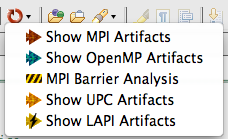
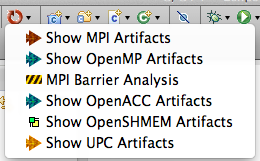
Remove references to PTP 5.0; replace with 6.0 where appropriate; misc help changes

diff --git a/tools/pldt/org.eclipse.ptp.pldt.doc.user/html/setup.html b/tools/pldt/org.eclipse.ptp.pldt.doc.user/html/setup.html
@@ -33,7 +33,7 @@ to find the include paths for build as well as for other Eclipse tools.
 refer to a C project in which it manages the makefile as  a "Managed Make Project" or a "Managed Build Project."
 They refer to a project which 
 you supply the makefile is a "Standard Make project".
-<p>The current version of CDT that works with PTP 5.0 is CDT 8.0.
+<p>The current version of CDT that works with PTP 6.0 is CDT 8.1.
 CDT 5.0 and later refers to a C project in which it manages the makefile as just a "C Project" and a project which 
 you supply the makefile is a <a href="setupMakefileProject.html">"Makefile project."</a>
 <p>Both terminologies are sometimes used in these instructions.
@@ -50,24 +50,10 @@ and the selection may be different from what is shown here.
 <img src="images/mpiWizard.png">
 <!--  ========================================== -->
 <p>&nbsp;
-<ul>
-<li>Note: if you have modified the MPI Preferences to <b>Uncheck</b> "Recognize MPI Artifacts by prefix (MPI) alone?"
-then the header file must be located for MPI artifacts to be recognized. 
-<p><img src="images/recognize-mpi-prefix.png">
-<p>&nbsp;
-<p>So if
-you are <i>not</i> recognizing MPI artifacts by prefix alone, then PLDT will have to use include files to
-identify MPI artifacts. If you have not set the MPI includes on the MPI Preferences page yet, 
-you'll be prompted at this point in the new project wizard dialog:
-<br><img src="images/mpiPrefsHaveNotBeenSet.png">
-<p>&nbsp;
-<p>See <a href="includes.html">A word about includes and MPI preferences</a>
-for more information and how to fill this in.
-</li>
-</ul>
+
 <!--  ========================================== -->
 <p>&nbsp;
-<p>After specifying the include files in the preferences, or if it wasn't required, select Next to go to the next page of the New Project Wizard.
+<p>Select Next to go to the next page of the New Project Wizard.
 
 <br>On the Basic Settings page of the wizard, fill in any project template values, e.g. your name
 in the Author field.
@@ -78,7 +64,9 @@ in the code that is generated.  The "Source" field indicates the name of the sou
 <p>On the next page, "MPI Project Settings" page,  the "Add MPI project settings to this project" should be checked.
 If you want to change any of the default values for this project, you can do so
 here by unchecking the "Use default information" and altering the values.
-The default values were chosen based on your input to the PLDT MPI Preferences above.
+The default values were chosen based on  input to the PLDT MPI Preferences page.
+To have a specific include path added to all new MPI projects, see <a href="#reco">below</a>
+for how to specify the MPI Include path in the Preferences.
 
 <br><img src="images/mpiWizard3.gif">
 <p>Select Finish.
@@ -135,6 +123,25 @@ You probably also need to do the same for the linker tool.
 previously known as "Managed Build" projects.  If you provide your own makefile, you will create a "Makefile project"
 and create the makefile within that project.
 See <a href="setupMakefileProject.html">Setting up project properties for a Makefile project</a>.
+
+
+<p>&nbsp;
+<h3 id="reco">Recognizing Artifacts by prefix, vs Include path</h3>   
+<p><b>Note:</b> if you have modified the MPI Preferences to <b>Uncheck</b> "Recognize MPI Artifacts by prefix (MPI) alone?"
+then the header file must be located for MPI artifacts to be recognized. 
+<p><img src="images/recognize-mpi-prefix.png">
+<p>&nbsp;
+<p>So if
+you are <i>not</i> recognizing MPI artifacts by prefix alone, then PLDT will have to use include files to
+identify MPI artifacts. If you have not set the MPI includes on the MPI Preferences page yet, 
+you'll be prompted after the first page in the new project wizard dialog:
+<br><img src="images/mpiPrefsHaveNotBeenSet.png">
+<p>&nbsp;
+<p>See <a href="includes.html">A word about includes and MPI preferences</a>
+for more information and how to fill this in.
+ 
+
+<p>&nbsp;
 <p>Now continue to set up to <a href="run.html">run the MPI tools</a>
 
 <p>&nbsp;

diff --git a/tools/pldt/org.eclipse.ptp.pldt.doc.user/html/codan.html b/tools/pldt/org.eclipse.ptp.pldt.doc.user/html/codan.html
@@ -1,0 +1,38 @@
+<html>
+<head>
+<title>
+CDT's Code Analysis (Codan)
+</title>
+	<link rel="stylesheet" type="text/css" href="help.css">
+	<script type="text/javascript" src="thumb.js"> </script>
+	</head>
+<body>
+<h1 id="top">CDT's Code Analysis (Codan)</h1>
+
+<p>CDT's <b>Code Analysis</b> (Codan) feature assists the user by flagging possible syntax errors and
+other issues as problems, warnings, or not at all. By default many of these
+are flagged as errors and can be confused with compile errors.
+<p>Codan Errors are identified with "bug icons" and they are listed in the
+Problems View as well.
+<p><img src="images/codan-errors.png">
+<p>You may want to turn off Codan or change its default reporting to Warning instead of Error.
+<p>To modify the Codan settings, open Preferences 
+(Window > Preferences, or on Mac OS X, Eclipse > Preferences)
+and under <b>C/C++</b> select <b>Code Analysis</b>
+<p><img src="images/codan-prefs.png">
+<p>To turn off the Codan errors, uncheck the boxes - uncheck the box at the top of
+each category and it will disable all the items in that category.  
+Be sure to scroll down in the <b>Problems</b> list to see them all.
+You can also change
+the error or warning level of each item by selecting the <b>Customize Selected...</b>
+button.
+<p>If the Codan errors don't disappear when you close the Preferences dialog, you may need
+to re-run Codan. You can re-run Codan by selecting the project in the Project Explorer,
+and selecting rightmouse > Run C/C++ Code Analysis via the context menu.
+<p><img src="images/codan-run.png">
+<p>If you turned off Codan errors in the Preferences, then the error markers should disappear.
+<p>&nbsp;<p>&nbsp;<p>&nbsp;
+<p><a href="#top">Back to Top</a> | <a href="toc.html">Back to PLDT Table of Contents</a>
+
+</body>
+</html>

diff --git a/core/org.eclipse.ptp.doc.user/html/00prereqs.html b/core/org.eclipse.ptp.doc.user/html/00prereqs.html
@@ -6,14 +6,14 @@
 <body>
 <h1 id="top">PTP - Prerequisites</h1>
 
-<p>The following prerequisites are required for PTP 5.0 installation. For more 
+<p>The following prerequisites are required for PTP 6.0 installation. For more 
 detailed information, including installation instructions, see
-<a href="http://wiki.eclipse.org/PTP/release_notes/5.0">
-http://wiki.eclipse.org/PTP/release_notes/5.0</a></p>
+<a href="http://wiki.eclipse.org/PTP/release_notes/6.0">
+http://wiki.eclipse.org/PTP/release_notes/6.0</a></p>
 <ul>
-<li>Java 1.5 or later</li>
-<li><a href="http://eclipse.org/downloads">Eclipse SDK</a> version 3.7 or later</li>
-<li><a href="http://eclipse.org/cdt/">Eclipse C/C++ Development Tools (CDT)</a> version 8.0.0 or later</li>
+<li>Java 1.6 or later</li>
+<li><a href="http://eclipse.org/downloads">Eclipse SDK</a> Juno (release 4.2) or later</li>
+<li><a href="http://eclipse.org/cdt/">Eclipse C/C++ Development Tools (CDT)</a> version 8.1 or later</li>
 <li><a href="http://eclipse.org/dsdp/tm">Remote System Explorer 3.3 or later</a></li>
 </ul>
 
@@ -45,12 +45,6 @@ http://wiki.eclipse.org/PTP/release_notes/5.0</a></p>
     <td>Eclipse only</td>
     <td>N/A</td>
   </tr>
-  <tr>
-    <td>AIX</td>
-    <td>ppc</td>
-    <td>Eclipse+Agents</td>
-    <td>N/A</td>
-  </tr>
 </table>
 
 <p>PTP supports a number of parallel runtime systems and job schedulers. These need to be installed on the target system prior to using PTP:</p>
@@ -61,6 +55,7 @@ http://wiki.eclipse.org/PTP/release_notes/5.0</a></p>
 <li>IBM LoadLeveler (LL)</li>
 <li>SLURM</li>
 <li>PBS/Torque</li>
+<li>Others ... </li>
 </ul>
 
 <p><a href="#top">Back to Top</a> | <a href="toc.html">Back to Table of Contents</a>

diff --git a/core/org.eclipse.ptp.doc.user/html/00newNoteworthy.html b/core/org.eclipse.ptp.doc.user/html/00newNoteworthy.html
@@ -1,18 +1,18 @@
 <html>
 <head>
-<title>New and Noteworthy - Parallel Tools Platform (PTP) Release 5.0 </title>
+<title>New and Noteworthy - Parallel Tools Platform (PTP) Release 6.0 </title>
 <link rel="stylesheet" type="text/css" href="help.css">
 </head>
 <body>
-<h1>Parallel Tools Platform (PTP) Release 5.0 - New and Noteworthy</h1>
+<h1>Parallel Tools Platform (PTP) Release 6.0 - New and Noteworthy</h1>
 
-<p>This version has had many enhancements and bug fixes since the 4.0  
+<p>This version has had many enhancements and bug fixes since the 5.0  
 release. 
-<p>Please see the online <a href="http://wiki.eclipse.org/PTP/new_and_noteworthy/5.0.0"> 
-New and Noteworthy</a> features in PTP release 5.0 for information and screenshots.
+<p>Please see the online <a href="http://wiki.eclipse.org/PTP/new_and_noteworthy/6.0.0"> 
+New and Noteworthy</a> features in PTP release 6.0 for information and screenshots.
 
-<p>Detailed PTP 5.0 release notes, including installation instructions, and more information on
-the new features in PTP 5.0 are available at <a href="http://wiki.eclipse.org/PTP/release_notes">
+<p>Detailed PTP 6.0 release notes, including installation instructions, and more information on
+the new features in PTP 6.0 are available at <a href="http://wiki.eclipse.org/PTP/release_notes">
     	http://wiki.eclipse.org/PTP/release_notes</a></p>
 
 <p><a href="#top">Back to Top</a> | <a href="toc.html">Back to Table of Contents</a>

diff --git a/tools/pldt/org.eclipse.ptp.pldt.doc.user/html/toc.html b/tools/pldt/org.eclipse.ptp.pldt.doc.user/html/toc.html
@@ -8,11 +8,11 @@ PTP Parallel Language Development Tools
 	</head>
 <body>
 <h1 id="top"> <img src="images/analyze.gif"> PTP Parallel Language Development Tools </h1>
-<p>Release 5.0
+<p>Release 6.0
 
 <h2>Help Topics</h2>
 <a href="overview.html">PLDT Overview, pre-requisites, etc.</a>
-<p><a href="http://wiki.eclipse.org/PTP/release_notes/5.0">Basic instructions on installing Eclipse, CDT, PTP, and PLDT</a>
+<p><a href="http://wiki.eclipse.org/PTP/release_notes/6.0">Basic instructions on installing Eclipse, CDT, PTP, and PLDT</a>
 from the Eclipse PTP web site.
 <p>The following instructions describe setup and run information.
 <h3>MPI</h3>
@@ -47,6 +47,10 @@ from the Eclipse PTP web site.
 <ul>
 <li><a href="runOpenACC.html">Running PTP OpenACC Tools</a></li>
 </ul>
+<h3>OpenSHMEM</h3>
+<ul>
+<li><a href="runOpenSHMEM.html">Running PTP OpenSHMEM Tools</a></li>
+
 <h3>Makefile vs. Managed Build projects</h3>
 <ul>
 <li><a href="setupMakefileProject.html">Setting up Makefile projects</a></li>

diff --git a/core/org.eclipse.ptp.doc.user/html/toc.html b/core/org.eclipse.ptp.doc.user/html/toc.html
@@ -38,7 +38,7 @@ infrastructure across multiple platforms.</p>
 <ol>
     <li><a href="localVsRemote.html">Local vs. Remote Projects</a></li>
 	<li><a href="01buildMPIprog.html">Creating MPI Projects</a></li>
-	<li><a href="sync.html">Synchronized Projects</a> (new in 5.0)</li>
+	<li><a href="sync.html">Synchronized Projects</a></li>
 	<li><a href="modules.html">Configuring Environment Modules</a> (new in 6.0)</li>
 	<li><a href="errorParsers.html">Recognizing Compiler Errors: Cray, PGI, and Open64</a> (new in 6.0)</li>
 	<li><a href="02resMgrSetup.html">Configuring Resource Managers</a></li>
